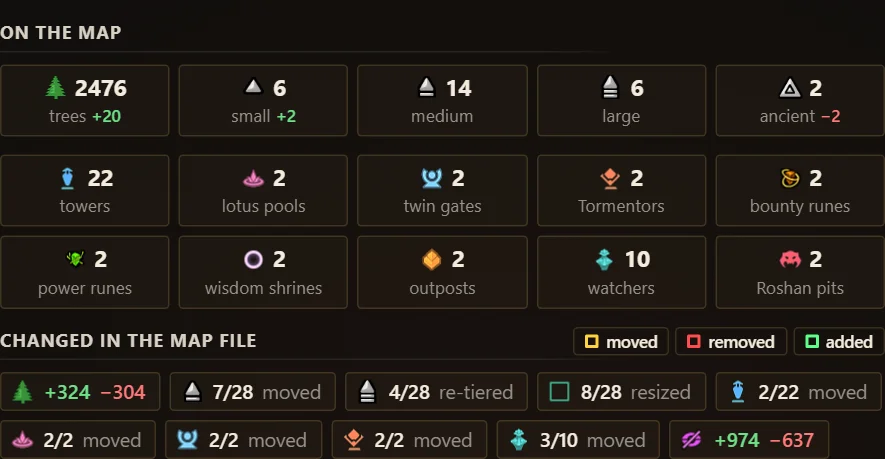
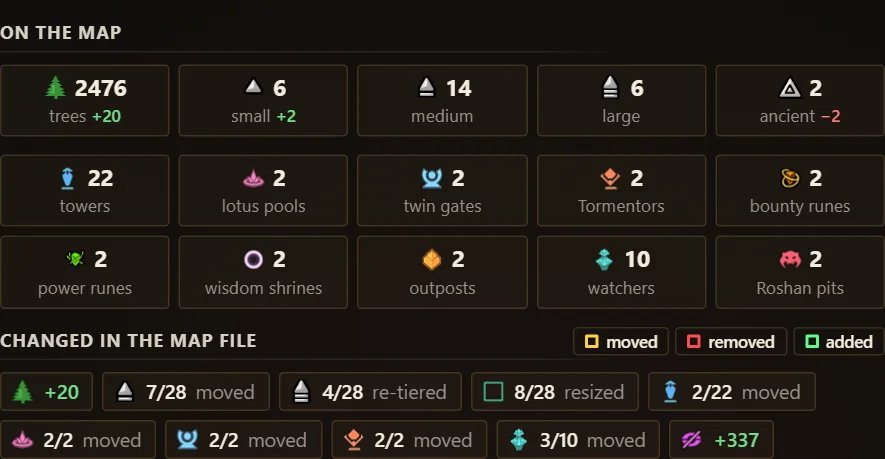
feat(terrain): version ranges, results instead of +A -B, versions on hover
- Terrain Stats: "Map version" shows the range a row covers ("7.35 - 7.37e")
  instead of listing the patches; a cell shows the result of what was added
  and removed (+20, -9, +-0); a chart point's hover shows "7.38 · 2496".
- Terrain pages: the "Changed in the map file" chips show the result too.
- terrain_post.py draws its cover in a scratch folder, never over the
  cover.jpg a published post links to.

Changed region(s): [[0.061, 0.8235, 1.0, 1.0]]

diff --git a/styles.css b/styles.css
@@ -9922,6 +9922,7 @@ a.tsp-label:hover, a.tsp-label:focus-visible { color: #e3c46a; text-decoration-c
   white-space: nowrap; color: var(--text-dim); line-height: 1.35;
 }
 .tf-chip b { color: var(--text-bright); font-weight: 600; }
+.tf-chip .tf-chip-zero { color: var(--text-main); font-weight: 600; }    /* as many added as removed */
 /* a chip that rings its changes red on the map (scripts.js initChangeHighlights) */
 button.tf-chip-btn { font: inherit; cursor: pointer; }
 button.tf-chip-btn:hover { border-color: rgba(227, 196, 106, 0.45); }
@@ -9994,13 +9995,13 @@ button.tf-kind[aria-pressed="false"] { opacity: 0.45; }
 .ts-table tbody tr:hover td { background: rgba(227, 196, 106, 0.05); }
 .ts-table td.ts-file { white-space: nowrap; font-weight: 700; color: var(--text-bright); }
 .ts-table td.ts-file a { color: inherit; text-decoration: underline dotted rgba(227, 196, 106, 0.5); text-underline-offset: 3px; }
-.ts-table .ts-also { display: block; font-weight: 400; font-size: 10.5px; color: var(--text-dim); white-space: normal;
-  max-width: 150px; margin: 1px auto 0; text-align: center; line-height: 1.3; }
+.ts-table .ts-range { white-space: nowrap; }                       /* "7.35 – 7.37e": the versions one row covers */
 .ts-table td.ts-date { white-space: nowrap; color: var(--text-dim); }
 .ts-table td.ts-changed { color: var(--text-bright); font-weight: 700; }
 .ts-table .ts-delta { display: block; font-size: 10px; font-weight: 600; line-height: 1.25; }
 .ts-table .ts-up { color: #6fe089; }
 .ts-table .ts-down { color: #ff7a7a; }
+.ts-table .ts-zero { color: var(--text-main); }
 .ts-table .ts-moved { display: block; color: #ffd23f; white-space: nowrap; }
 .ts-table a.ts-thumb { display: inline-block; line-height: 0; }
 .ts-table a.ts-thumb img { width: 28px; height: 28px; border-radius: 3px; border: 1px solid rgba(227, 196, 106, 0.3);

diff --git a/builders/terrain_stats.py b/builders/terrain_stats.py
@@ -98,26 +98,6 @@ def group(files):
     return rows
 
 
-def _ranges(patches):
-    """'7.22b, 7.22c, 7.22d' -> '7.22b–7.22d': runs of consecutive letters of one patch number."""
-    out, run = [], []
-
-    def flush():
-        if run:
-            out.append(run[0] if len(run) == 1 else f"{run[0]}–{run[-1]}")
-    for p in patches:
-        base, letter = _re.match(r"(\d+\.\d+)([a-z]?)", p).groups()
-        if run:
-            pb, pl = _re.match(r"(\d+\.\d+)([a-z]?)", run[-1]).groups()
-            if pb == base and pl and letter and ord(letter) == ord(pl) + 1:
-                run.append(p)
-                continue
-        flush()
-        run = [p]
-    flush()
-    return ", ".join(out)
-
-
 def churn(f):
     """Trees added + removed in a map file (7.38: +1017 −1052 → 2069)."""
     t = f["moves"].get("trees", {})
@@ -195,7 +175,7 @@ def chart_svg(files, w=1300, h=260):
             labels.append(f'<g class="ts-mark"><rect x="{lx}" y="{ly}" width="{lw}" height="20" rx="3"/>'
                           f'<text x="{lx + lw / 2}" y="{ly + 14}">{_esc(f["patch"])}</text></g>')
         # hover: the point grows and shows its tree count only (CSS :hover on the group; a wide invisible target)
-        tip = str(ys[i])
+        tip = f"{f['patch']} · {ys[i]}"          # the version and its tree count (the owner: "bring the versions back")
         tw = 14 + len(tip) * 7
         tx = min(max(x - tw / 2, pad_l + 2), right - tw - 2)
         ty = y + 14 if y - 30 < pad_t else y - 30
@@ -209,15 +189,16 @@ def chart_svg(files, w=1300, h=260):
 
 
 def _change(f, prev, key):
-    """What changed in this kind of object since the file before: '+324 −304' (added green, removed red), '7 moved'
-    (yellow), or the bare difference of the counts when the file's own list says nothing (a camp tier)."""
+    """What changed in this kind of object since the file before: the result of what was added and removed ('+20',
+    green up / red down, '±0' when as many went as came), '7 moved' (yellow), or the bare difference of the counts
+    when the file's own list says nothing (a camp tier)."""
     m = f["moves"].get(key, {})
     out = []
-    if m.get("add"):
-        out.append(f'<span class="ts-up">+{m["add"]}</span>')
-    if m.get("rem"):
-        out.append(f'<span class="ts-down">−{m["rem"]}</span>')
-    if not out and prev is not None and key in f["n"] and prev.get(key) is not None and f["n"][key] != prev[key]:
+    if m.get("add") or m.get("rem"):        # the result, not both halves (the owner: "not +734 −548 — +186")
+        net = m.get("add", 0) - m.get("rem", 0)
+        out.append(f'<span class="{"ts-up" if net > 0 else "ts-down" if net < 0 else "ts-zero"}">'
+                   f'{"+" if net > 0 else "−" if net < 0 else "±"}{abs(net)}</span>')
+    elif prev is not None and key in f["n"] and prev.get(key) is not None and f["n"][key] != prev[key]:
         diff = f["n"][key] - prev[key]
         out.append(f'<span class="{"ts-up" if diff > 0 else "ts-down"}">{"+" if diff > 0 else "−"}{abs(diff)}</span>')
     for kind in ("moved", "changed"):
@@ -238,14 +219,15 @@ def _cell(f, prev, key):
 
 
 def table_html(files, pages):
-    head = ('<th class="ts-file"><span>Map file</span></th><th><span>Date</span></th>'
+    head = ('<th class="ts-file"><span>Map version</span></th><th><span>Date</span></th>'
             + "".join(f'<th>{_icon(icon)}<span>{_esc(label)}</span></th>' for _k, label, icon in COLUMNS)
             + '<th><span>Map</span></th>')
     rows, prev = [], None
     for f in group(files):
         ver = f["patch"]
         link = (f'<a href="{_terrain._terrain_filename(ver)}">{_esc(ver)}</a>' if ver in pages else _esc(ver))
-        also = f'<span class="ts-also">also {_esc(_ranges(f["also"]))}</span>' if f["also"] else ""
+        # the versions it covers as a range, first – last (the owner: "7.35 – 7.37e is easier than listing them")
+        also = f'<span class="ts-range"> – {_esc(f["also"][-1])}</span>' if f["also"] else ""
         cells = "".join(_cell(f, prev, k) for k, _l, _i in COLUMNS)
         thumb = (f'<a class="ts-thumb" href="{OG_PAGES}{_esc(ver)}/map.webp" aria-label="The {_esc(ver)} map">'
                  f'<img src="icons/maps/thumbs/{_esc(f["sha8"])}.webp" alt="" width="28" height="28" loading="lazy" '

diff --git a/tests/test_terrain_stats.py b/tests/test_terrain_stats.py
@@ -17,9 +17,7 @@ def test_every_map_file_is_one_row_with_the_patches_that_shipped_it():
     files = ts.load()
     assert len(files) == 65 and files[0]["patch"] == "7.08"
     by = {f["patch"]: f for f in files}
-    assert by["7.22"]["also"][:2] == ["7.22b", "7.22c"] and ts._ranges(by["7.22"]["also"]) == "7.22b–7.22f"
-    assert ts._ranges(["7.10"]) == "7.10" and ts._ranges(["7.12", "7.13", "7.13b", "7.14"]) == "7.12, 7.13, 7.13b, 7.14"
-    assert ts._ranges(["7.20b", "7.20c", "7.20d"]) == "7.20b–7.20d"
+    assert by["7.22"]["also"][:2] == ["7.22b", "7.22c"]
     assert by["7.41"]["n"]["watchers"] == 10 and by["7.41"]["n"]["outposts"] == 2      # lanterns, not outposts
     assert [by["7.41"]["n"][f"tier{t}"] for t in range(4)] == [6, 14, 6, 2]
     assert ts.churn(by["7.38"]) == 2069 and by["7.41"]["moves"]["camps"] == {"moved": 7}
@@ -33,11 +31,14 @@ def test_cells_show_added_removed_and_moved():
     assert table.count("<tr>") == len(rows) + 1 and len(rows) < 65
     assert table.index(">7.41a<") < table.index(">7.08<")              # newest first
     glued = next(r for r in rows if r["patch"] == "7.41a")
-    assert glued["also"] == ["7.41b", "7.41c", "7.41d", "7.41e", "7.41f"] and ">also 7.41b–7.41f<" in table
+    assert glued["also"] == ["7.41b", "7.41c", "7.41d", "7.41e", "7.41f"]
+    assert '7.41a<span class="ts-range"> – 7.41f</span>' in table                # a range, not a list (the owner)
+    assert '7.35<span class="ts-range"> – 7.37e</span>' in table and "also " not in table
+    assert ">Map version<" in table and ">Map file<" not in table
     assert "Spawn boxes" not in table and "icon_calendar" not in table and "icon_terrain" not in table
     assert '<a href="terrain_741.html">7.41</a>' in table and '<a href="terrain_739.html">' not in table
     row = table.split('<a href="terrain_741.html">7.41</a>', 1)[1].split("</tr>", 1)[0]
-    assert '<span class="ts-up">+324</span> <span class="ts-down">−304</span>' in row         # trees
+    assert '<span class="ts-up">+20</span>' in row and "+324" not in row          # trees: the result, not +324 −304
     assert '<span class="ts-moved">7 moved</span>' in row and '<span class="ts-moved">2 moved</span>' in row
     assert "What moved" not in table and "picture" not in table
     assert 'src="icons/maps/thumbs/' in table and 'class="ts-thumb"' in table
@@ -54,7 +55,7 @@ def test_tiles_chart_and_the_terrain_menu():
     assert '<a class="tf-tile ts-tile-link" href="https://github.com/sikleq/Oldgrowth">' in tiles
     chart = ts.chart_svg(files)
     assert chart.count('class="ts-mark"') == 5 and '">7.33</text></g>' in chart and "+1838" not in chart  # versions only
-    assert chart.count('class="ts-pt"') == 65 and '">2496</text>' in chart and " trees<" not in chart  # count on hover
+    assert chart.count('class="ts-pt"') == 65 and '">7.38 · 2496</text>' in chart       # version + count on hover
     assert 'class="ts-grid ts-grid-major" x1=' in chart and 'class="ts-axis"' in chart
     groups = {g[0]: g for g in site.MATERIALS_GROUPS}
     assert [c[0] for c in groups["terrain_grp"][3]] == ["terrain", "terrain_stats"]

diff --git a/tests/test_terrain_steps.py b/tests/test_terrain_steps.py
@@ -109,8 +109,8 @@ def test_a_patch_without_terrain_notes_says_nothing_and_shows_what_moved():
     assert "Patch notes" not in html and "No terrain changes" not in html and "terrain-notes-none" not in html
     assert '<ul class="changes terrain-list">\n\n</ul>\n<div class="terrain-facts">' in html
     assert '<div class="tf-head">Changed in the map file<span class="tf-kinds">' in html
-    assert ('alt="Trees" width="16" height="16"><span class="tm-add-text">+2</span> '
-            '<span class="tm-rem-text">−11</span></button>') in html
+    # the result, not both halves (the owner 2026-10-04: "not +734 −548 — write the result"): 7.38b trees +2 −11
+    assert 'alt="Trees" width="16" height="16"><span class="tm-rem-text">−9</span></button>' in html
     assert 'src="icons/maps/map_7.38_2k.webp' in html and 'src="icons/maps/map_7.38b_2k.webp' in html
     assert "← 7.38&nbsp; OLD" in html and "NEW &nbsp;7.38b →" in html
 

diff --git a/builders/terrain.py b/builders/terrain.py
@@ -1004,7 +1004,9 @@ def _chip(name, kind, n, removed, total):
     img = (f'<img src="icons/{icon}.png" alt="{label}" width="16" height="16">' if icon
            else f'<span class="tf-chip-name">{label}</span>')
     if kind == "delta":
-        value = f'{_signed(n)}{_signed(-removed)}'.strip()
+        # the result, not both halves (the owner 2026-10-04: "not +734 −548 — write the result, +186"); the outlines on
+        # the map still show what was removed and what was added
+        value = _signed(n - removed).strip() or '<span class="tf-chip-zero">±0</span>'
     else:
         value = f'<b>{n}/{total}</b> {_CHANGED_WORD.get(name, kind)}'
     key = _HL_KEY.get(name)

diff --git a/tools/telegraph_post/terrain_post.py b/tools/telegraph_post/terrain_post.py
@@ -198,8 +198,15 @@ COVER_NAME = "cover_site.jpg"     # a new name for a changed cover: Telegram kee
 
 
 def _cover(subtitle):
-    name = _plain_cover(subtitle)
-    (bp.IMG_DIR / name).replace(bp.IMG_DIR / COVER_NAME)
+    """build_post draws its cover as IMG_DIR/cover.jpg — drawn in a scratch folder here, so the cover.jpg an older,
+    published post links to is never overwritten."""
+    real, tmp = bp.IMG_DIR, bp.OUT / "cover_tmp"
+    bp.IMG_DIR = tmp
+    try:
+        name = _plain_cover(subtitle)
+        (tmp / name).replace(real / COVER_NAME)
+    finally:
+        bp.IMG_DIR = real
     return COVER_NAME
 
 

diff --git a/docs/terrain.md b/docs/terrain.md
@@ -379,13 +379,15 @@ Tools → Source Filmmaker, `tools/sfm.dll`) renders leamare's look:
   dist/terrain_stats.html (build step "tstats"), left-aligned like every Materials page (no intro), the headings 10 px
   in: tiles centred (patches, "65 map files" linking to the Oldgrowth repo with a dotted label, trees and camps since
   7.08); an inline-SVG step chart of the trees on a faint grid (a line per 100 trees and per year, faint axes), each
-  point's tree count on hover (CSS `.ts-pt:hover .ts-tip`), the 5 files that moved the most trees labelled with their
-  version only, on dark plates; and the table, newest first, full width — map files with nothing different from the
-  one before glued into its row (`group`: 65 files → 33 rows, "7.41a also 7.41b–7.41f"), the date as dd-mm-yy, no icon
-  on Map file / Date, 17 kinds of object (trees, camps and each tier, towers, outposts, watchers, lotus pools,
+  point's version and tree count on hover ("7.38 · 2496", CSS `.ts-pt:hover .ts-tip`), the 5 files that moved the
+  most trees labelled with their version only, on dark plates; and the table, newest first, full width — map files
+  with nothing different from the one before glued into its row (`group`: 65 files → 33 rows), the "Map version" a
+  range ("7.35 – 7.37e", the owner: "easier than listing them"), the date as dd-mm-yy, no icon on Map version / Date,
+  17 kinds of object (trees, camps and each tier, towers, outposts, watchers, lotus pools,
   wisdom, Twin Gates, bounty / power runes, shrines — `tc_shrines`, a stone well drawn by gen_terrain_layer_icons.py —,
-  Roshan pits, Tormentors), each cell its count plus what changed since the file before: added green, removed red,
-  moved / changed yellow (no "what moved" sentence column; the owner: "show moved like removed / added, in yellow";
+  Roshan pits, Tormentors), each cell its count plus what changed since the file before: the RESULT of what was added
+  and removed ("+20" green / "−9" red / "±0" — the owner: "not +734 −548, write the result, +186"; the Terrain page's
+  "Changed in the map file" chips likewise, `_chip`), moved / changed yellow (no "what moved" sentence column; the owner: "show moved like removed / added, in yellow";
   no Spawn boxes column — "nearly always empty"),
   and a 28-px square of the map (`icons/maps/thumbs/<sha8>.webp`, scripts/gen/map_thumbs.py) linking to its Oldgrowth
   picture. Data: `data/map/map_history.json` (counts + `moves` parsed from the "what moved" text) from Oldgrowth's
